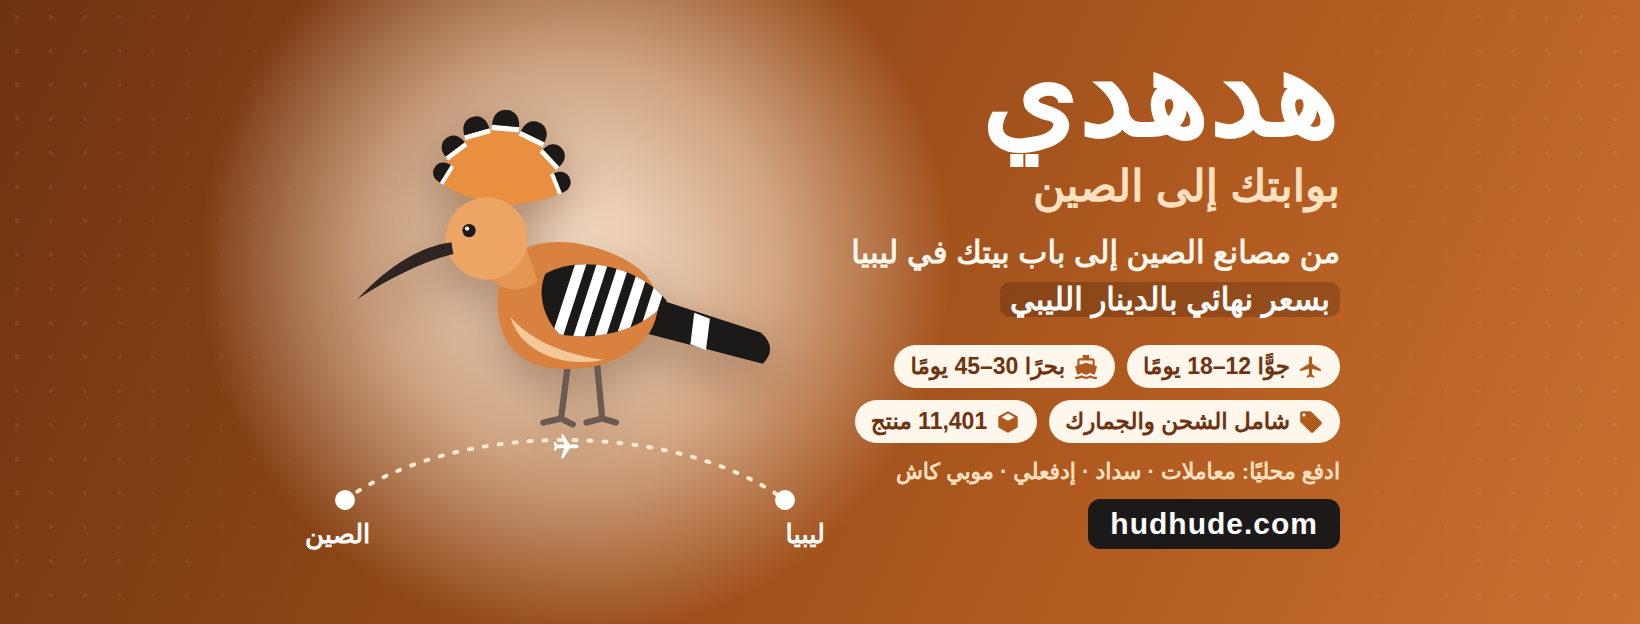
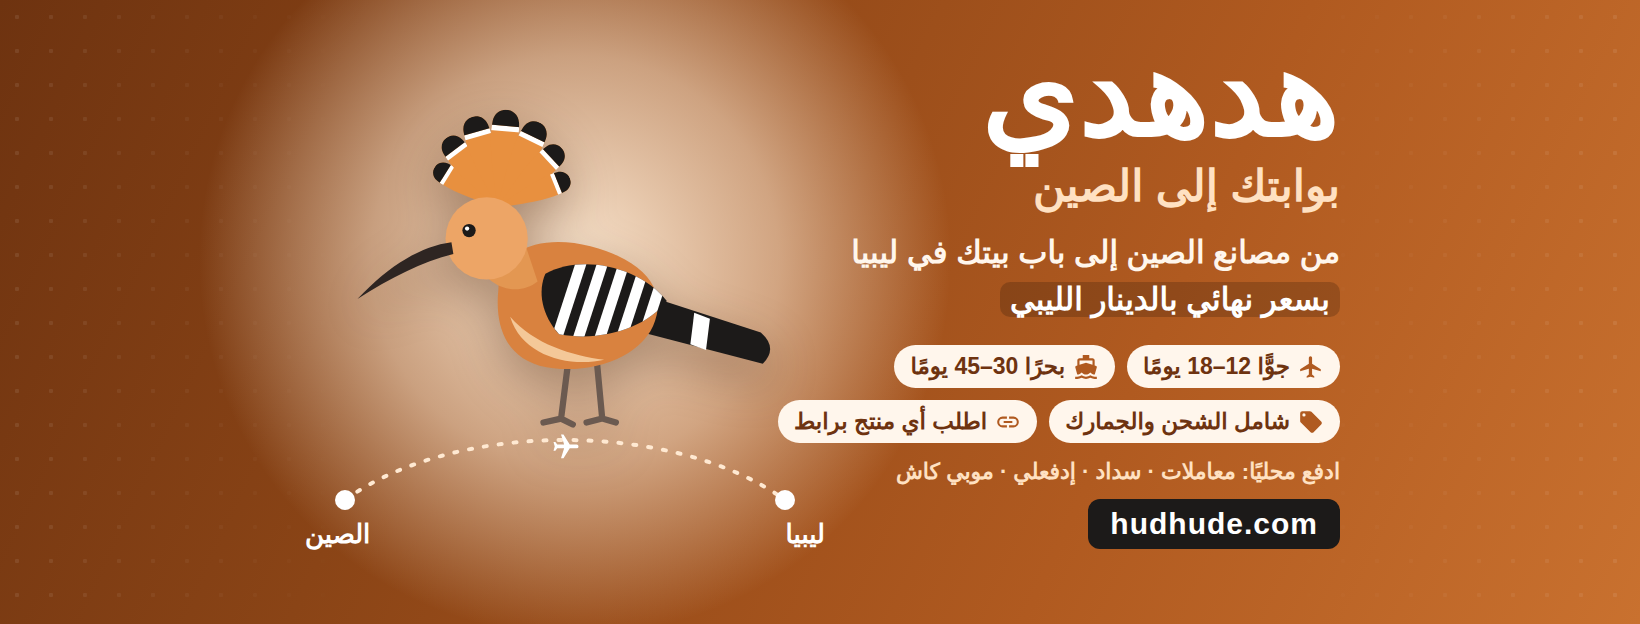
Facebook cover: 'order any product by link' instead of a product count
A cover is a static image; the product count goes stale with the next
import batch, and order-by-link makes every 1688 item available anyway.

Claude-Session: https://claude.ai/code/session_01Pi8bzYGJ4tgmAXaGLCBnqo

Changed region(s): [[0.4665, 0.6394, 0.622, 0.7308]]

diff --git a/design/social/cover.html b/design/social/cover.html
@@ -79,7 +79,7 @@ body{width:1640px;height:624px;overflow:hidden;position:relative;color:#fff;
     <span class="chip"><svg viewBox="0 0 24 24" width="30" height="30"><path fill="currentColor" d="M21 16v-2l-8-5V3.5a1.5 1.5 0 0 0-3 0V9l-8 5v2l8-2.5V19l-2 1.5V22l3.5-1 3.5 1v-1.5L13 19v-5.5z"/></svg> جوًّا 12–18 يومًا</span>
     <span class="chip"><svg viewBox="0 0 24 24" width="30" height="30"><path fill="currentColor" d="M20 21c-1.4 0-2.8-.5-4-1.3-2.4 1.7-5.6 1.7-8 0-1.2.8-2.6 1.3-4 1.3H2v2h2c1.4 0 2.7-.3 4-1 2.5 1.3 5.5 1.3 8 0 1.3.7 2.6 1 4 1h2v-2h-2zM3.9 19H4c1.6 0 3-.9 4-2 1 1.1 2.4 2 4 2s3-.9 4-2c1 1.1 2.4 2 4 2h.1l1.9-6.7c.1-.5-.1-1-.6-1.2L20 10.6V6c0-1.1-.9-2-2-2h-3V1H9v3H6c-1.1 0-2 .9-2 2v4.6l-1.3.5c-.5.2-.7.7-.6 1.2L3.9 19zM6 6h12v3.97L12 8 6 9.97V6z"/></svg> بحرًا 30–45 يومًا</span>
     <span class="chip"><svg viewBox="0 0 24 24" width="28" height="28"><path fill="currentColor" d="M21.4 11.6 12.4 2.6A2 2 0 0 0 11 2H4a2 2 0 0 0-2 2v7c0 .6.2 1.1.6 1.4l9 9c.4.4.9.6 1.4.6s1-.2 1.4-.6l7-7c.4-.4.6-.9.6-1.4s-.2-1-.6-1.4zM5.5 7A1.5 1.5 0 1 1 7 5.5 1.5 1.5 0 0 1 5.5 7z"/></svg> شامل الشحن والجمارك</span>
-    <span class="chip"><svg viewBox="0 0 24 24" width="28" height="28"><path fill="currentColor" d="M21 16.5c0 .4-.2.7-.5.9l-7.9 4.4c-.2.1-.4.2-.6.2s-.4-.1-.6-.2l-7.9-4.4c-.3-.2-.5-.5-.5-.9v-9c0-.4.2-.7.5-.9l7.9-4.4c.2-.1.4-.2.6-.2s.4.1.6.2l7.9 4.4c.3.2.5.5.5.9v9zM12 4.2 6 7.5l6 3.3 6-3.3-6-3.3z"/></svg> 11,401 منتج</span>
+    <span class="chip"><svg viewBox="0 0 24 24" width="28" height="28"><path fill="currentColor" d="M3.9 12a3.1 3.1 0 0 1 3.1-3.1h4V7H7a5 5 0 0 0 0 10h4v-1.9H7A3.1 3.1 0 0 1 3.9 12zM8 13h8v-2H8v2zm9-6h-4v1.9h4a3.1 3.1 0 0 1 0 6.2h-4V17h4a5 5 0 0 0 0-10z"/></svg> اطلب أي منتج برابط</span>
   </div>
   <div class="pay">ادفع محليًا: معاملات · سداد · إدفعلي · موبي كاش</div>
   <div class="url">hudhude.com</div>
